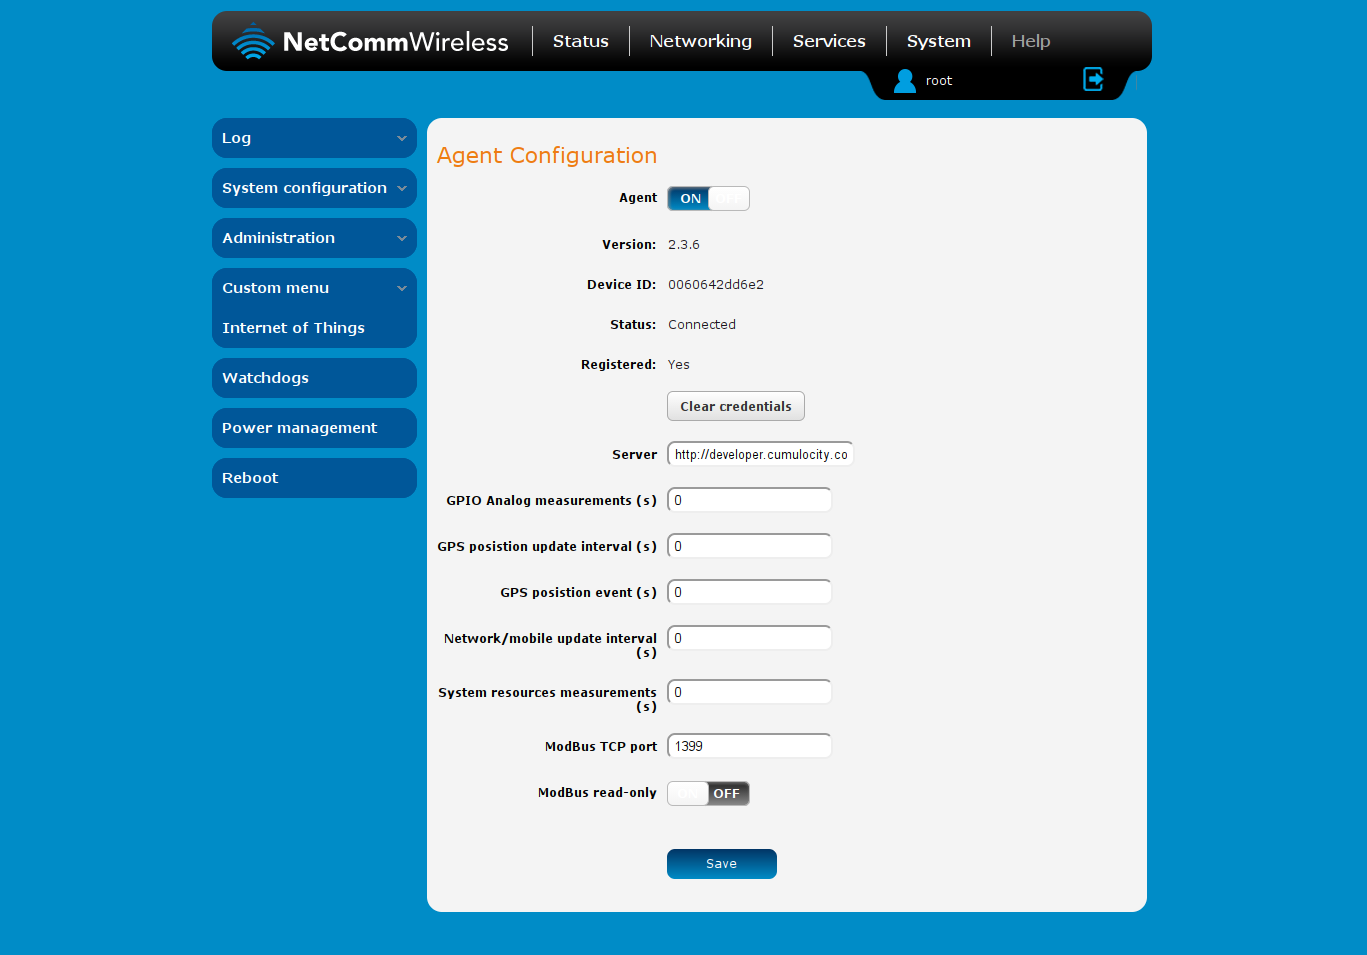
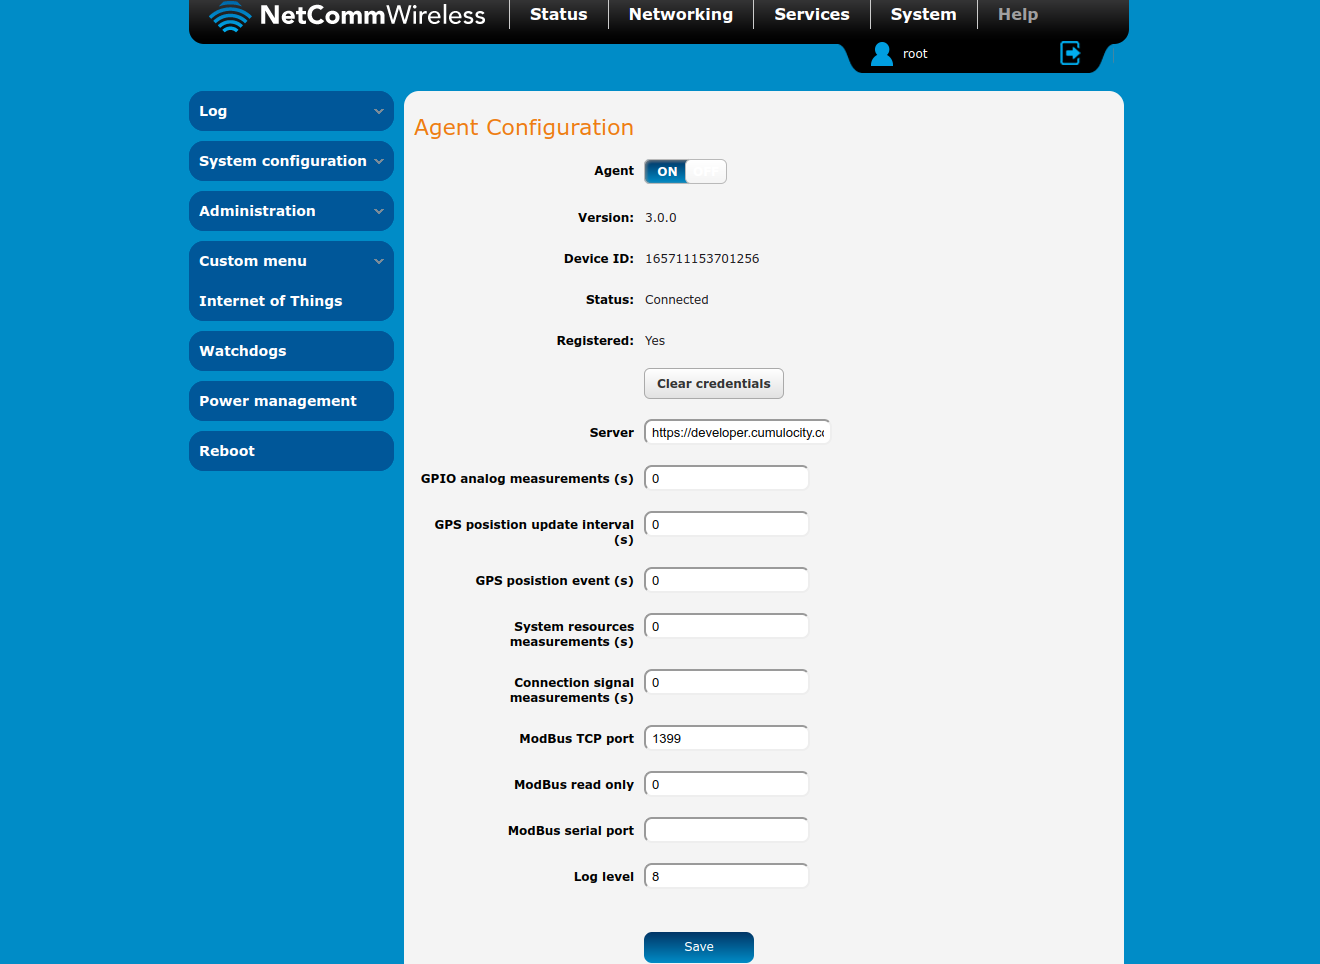
netcomm/3.0.0: release notes and user guide.

Changed region(s): [[0.1242, 0.0, 0.8697, 1.0]]

diff --git a/src/documents/guides/devices/netcommwireless.html.md b/src/documents/guides/devices/netcommwireless.html.md
@@ -1,6 +1,6 @@
 ---
 order: 20
-title: NetCommWireless Agent User's Guide
+title: NTC-6200
 layout: default
 ---
 
@@ -26,13 +26,13 @@ The following sections assume that the router has the NetComm [agent](/guides/de
 
 ## <a name="configure"></a>Configuring the router
 
-The support for Cumulocity can be configured through the router's web user interface. To do so, login to the user interface as described in the router's manual. Navigate to the "System" tab and click on the "Cumulocity" menu item.
+The support for Cumulocity can be configured through the router's web user interface. To do so, login to the user interface as described in the router's manual. Navigate to the "System" tab and click on the "Internet of Things" menu item.
 
 ![Cumulocity configuration](/guides/devices/netcomm/routerconf.png)
 
-Verify that the toggle switch "Cumulocity agent" is set to "ON" and the URL shown in "Cumulocity server" points to the Cumulocity instance that you want to connect. For example, use
+Verify that the toggle switch "Cumulocity agent" is set to "ON" and the URL shown in "Server" points to the Cumulocity instance that you want to connect. For example, use
 
-* https://management.cumulocity.com/s for connecting to Cumulocity.
+* https://developer.cumulocity.com/s for connecting to Cumulocity.
 * https://management.ram.m2m.telekom.com/s for connecting to Deutsche Telekom Cloud of Things.
 
 Optionally, you can activate data collecting for the following functionalities:
@@ -40,12 +40,13 @@ Optionally, you can activate data collecting for the following functionalities:
 * GPIO analog measurements: Send the voltages of the analog inputs [seconds].
 * GPS position interval: Update the current GPS position [seconds].
 * GPS position event: Send a location trace of the GPS position [seconds].
-* Network/mobile update interval: Send the network and mobile updates not often than this interval [seconds].
-* System resources measurements: Get information on CPU, memory and network [seconds].
+* System resources measurements: Get information about CPU usage, memory usage and network traffic [seconds].
 
-All these options are disabled by default (the interval is set to zero).
+All these options are disabled by default (the interval is set to 0).
 
 The web interface also shows the status of the connection to Cumulocity:
+
+(For version 2.x)
 
  * Off: The software is disabled.
  * Initializing: The software is initializing.
@@ -59,15 +60,28 @@ The web interface also shows the status of the connection to Cumulocity:
  * Reconnecting: The software is retrying the connection.
  * Stopping: The software is terminating.
 
+(For version 3.x)
+* Checking network connection: waiting for mobile network connection at boot.
+* Bootstrapping: load credentials or request credentials from Cumulocity.
+* Integrating: Connecting to Cumulocity.
+* Loading plugins: loading Lua plugins.
+* Connected: The agent is successfully connected to Cumulocity.
+* No server URL: no or invalid server URL.
+* Bootstrap failed: Can not get credentials from Cumulocity.
+* Integration failed: can not connect to Cumulocity.
+* Create threads failed: not able to start reporter or device push.
+
 ## <a name="connect"></a>Connecting the router
 
-To register your NetComm router to Cumulocity, you need the MAC address of the router's Ethernet card as _Device ID_. The registration process is described in section "[Connecting devices](/guides/users-guide/device-management/#device-registration)" in the User Guide. The MAC address is printed on the back side of the router as shown in the screenshot below. Alternately, it is also available in the router's web user interface. Navigate to "System", "Cumulocity" and view the "Device ID" field as shown in the screenshot above. Please make sure to use only lowercase letters and numbers when entering the MAC address. Do not use colons to separate the MAC address. For example, the MAC address from the picture would be entered as
+To register your NetComm router to Cumulocity, you need the router's serial number as _Device ID_. The registration process is described in section "[Connecting devices](/guides/users-guide/device-management/#device-registration)" in the User Guide. The serial number is printed on the back side of the router as shown below. Alternately, it is also available in the router's web user interface. Navigate to "System", "Internet of Things" and view the "Device ID" field.
+
+> Users of version 2.x or upgrading from 2.x to 3.x should use the router's MAC address. Please make sure to use only lowercase letters and numbers when entering the MAC address. Do not use colons to separate the MAC address. For example, the MAC address from the picture would be entered as
 
 	006064dda4ae
 
 ![MAC address](/guides/devices/netcomm/mac.png)
 
-After clicking the "accept" button, navigate to "All devices", the router should appear here after registration. The default name of a router is "NTC-6200 <serial number>". For example, the above router would appear as "NTC-6200 165711141901036". Click on the router to view the detailed information and to access the functionality described in the remaining sections of this document. In order to distinguish a registered router from other devices in the listing, you can change the router's name on the "Info" tab, which also displays basic information such as serial number of the router and SIM card data. After changing the name, remember to click "save changes" button at the bottom of the "Info" page.
+After clicking the "accept" button, navigate to "All devices", the router should appear here after registration. The default name of a router is "NTC-6200 (S/N &lt;serial number&gt;)". For example, the above router would appear as "NTC-6200 (S/N 165711141901036)". Click on the router to view the detailed information and to access the functionality described in the remaining sections of this document. In order to distinguish a registered router from other devices in the listing, you can change the router's name on the "Info" tab, which also displays basic information such as serial number of the router and SIM card data. After changing the name, remember to click "save changes" button at the bottom of the "Info" page.
 
 ![Device details](/guides/devices/netcomm/info.png)
 
@@ -89,7 +103,7 @@ The installed software and firmware on the router can be remotely managed using 
 
 Software packages need to be in [ipkg](http://en.wikipedia.org/wiki/Ipkg) format and follow the naming convention "&lt;package&gt;\_&lt;version&gt;\_&lt;arch&gt;.ipk". Version numbers including letters are not supported. All package management methods (install, upgrade, downgrade, removal) are supported through the router's package manager. If software packages have dependencies, please make sure to install these first.
 
-> The package "smartrest-agent\_&lt;version&gt;\_arm.ipk" represents the NetComm agent. it must remain installed on the router, otherwise the device will lose connection to Cumulocity.
+> The package "smartrest-agent\_&lt;version&gt;\_arm.ipk" represents the NetComm agent. It is prohibited to remove this package from Cumulocity.
 
 > When upgrading from versions older than 2.1.1, the device needs to be re-registered.
 
@@ -180,9 +194,9 @@ You can retrieve, modify and save user configuration data. To do this, navigate 
 
 > Prior to Cumulocity 6.9, this widget was in the "Control" tab. Starting from Cumulocity 6.9, you can also take entire configuration snapshots including the non-textual parts of the device and send reference configuration snapshots back to the device.
 
-## <a name="sms_mode"></a> Configuring devices to use SMS mode	
+## <a name="sms_mode"></a> Configuring devices to use SMS mode
 
-To use SMS commands for devices, open the router's web interface and navigate to "Services", "SMS messaging", then "Diagnostics". Configure the device as follows: 
+To use SMS commands for devices, open the router's web interface and navigate to "Services", "SMS messaging", then "Diagnostics". Configure the device as follows:
 
 * Either disable "Only accept authenticated SMS messages", or add permitted senders to the white list. Usage of passwords is not supported.
 * Turn the other settings on.

diff --git a/src/documents/guides/devices/netcomm-release.html.md b/src/documents/guides/devices/netcomm-release.html.md
@@ -1,9 +1,9 @@
 ---
-title: NetCommWireless Agent Release Notes
+title: NTC-6200 Release Notes
 layout: default
 ---
 
-## Release notes for NetComm Agent 2.3
+## Release notes for NetComm Agent 3.0
 
 This document describes the Cumulocity agent package for the [NetComm Wireless NTC-6200](http://www.netcommwireless.com/product/m2m/ntc-6200) router.
 
@@ -34,9 +34,7 @@ The agent supports the following functionality:
 
 * The time on the router and on the server may not be fully in sync, hence you may see updates (e.g., alarms, events) that occur "in future". This is also the reason that it may take a while until the "Location" and the "Measurement" tab appear for new devices.
 * Only WAN profile 1 is supported. To set APNs, the "auto APN" mode on the device needs to be disabled.
-* The Modbus implementation currently does not support shifting decimal points. (However, divisor can be used to achieve the same effect.)
 * Under some circumstances, a command sent to the device may be lost while switching between SMS and IP mode.
-* Saving configuration snapshots can lead to disconnecting the device.
 
 ## System requirements
 
@@ -48,10 +46,11 @@ The agent was tested on an NTC-6200 device with firmware version 2.0.24.3. For r
 
 ## Installing the agent
 
-* Download the software: http://resources.cumulocity.com/ntc/smartrest-agent_2.3.6_arm.ipk.
+* Download the software: http://resources.cumulocity.com/ntc/smartrest-agent_3.0.0_arm.ipk.
 * Log in to the web user interface of the NTC-6200.
 * Navigate to the "System" menu. Click on "System configuration", "Choose a file" and select the downloaded software. Click "Upload" to upload the software to the router.
 * Click the "Install" button for the uploaded software which you want to install.
+* Reboot the NetComm router.
 
 The agent will automatically start after installation and the router can then be [registered with Cumulocity](/guides/devices/netcommwireless#connect). Subsequent upgrades or downgrades can be performed remotely via the agent's software management feature, or locally via the router's web portal.
 
@@ -60,10 +59,6 @@ The agent will automatically start after installation and the router can then be
 ## Using the agent
 
 For information on using the agent, please visit the [NetComm Agent User's Guide](/guides/devices/netcommwireless).
-
-## Rapid development of IoT applications
-
-For an alpha version of the Lua-based rapid development, visit https://bitbucket.org/m2m/cumulocity-clients-c/src/b68581d239244f301fde91131ff68f157cf91495/Lua.md?at=develop.
 
 ## History
 
@@ -130,3 +125,12 @@ For an alpha version of the Lua-based rapid development, visit https://bitbucket
 
 * [MTM-11911]*fix*: not respect multiplier, divisor and decimalPlaces definition in FieldBus 4 when sending event.
 * [MTM-11740] string update: use generic IoT tokens instead of Cumulocity.
+
+### 3.0.0
+[Download link](http://resources.cumulocity.com/ntc/smartrest-agent_3.0.0_arm.ipk). Changes:
+* [MTM-12034](https://cumulocity.atlassian.net/browse/MTM-12034): add measurement poll support.
+* [COT-60](https://cumulocity.atlassian.net/browse/COT-60): implement modbus-RTU support for Cloud Fieldbus 4.
+* [MTM-12239](https://cumulocity.atlassian.net/browse/MTM-12239): add timestamp to description of uploaded configuration snapshot.
+* [MTM-11785](https://cumulocity.atlassian.net/browse/MTM-11785): report GPS fix on boot.
+* [MTM-11830](https://cumulocity.atlassian.net/browse/MTM-11830): Add support for serial number in registration.
+* [MTM-12283](https://cumulocity.atlassian.net/browse/MTM-12283): disallow removing agent from Cumulocity Software Management.
